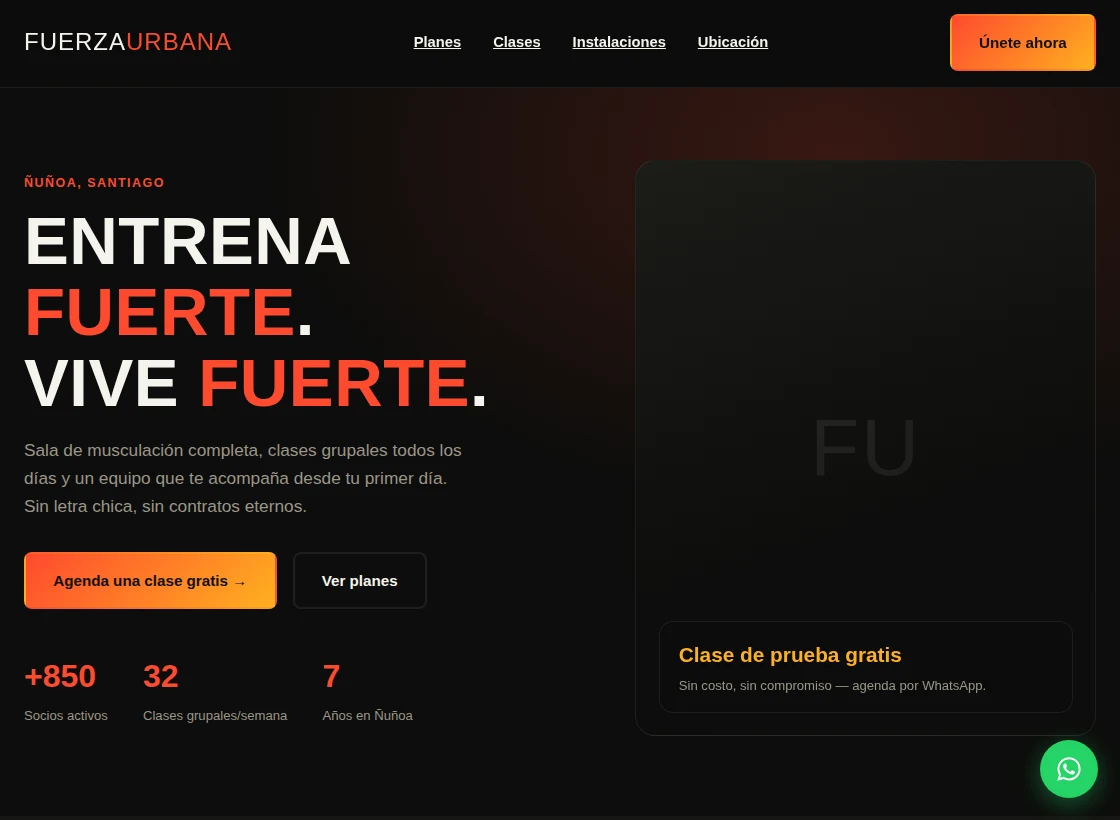
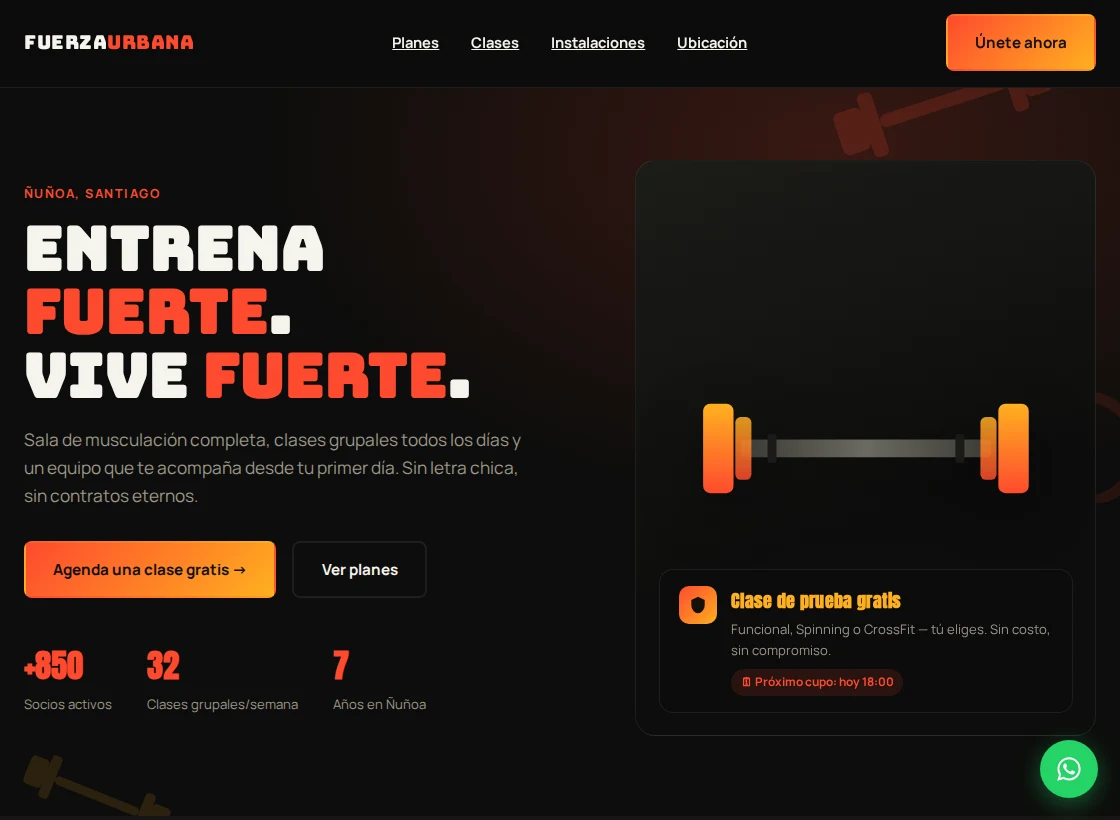
Polish gym demo: distinctive type pairing, animated hero weights, richer trial-class card
- Swap the generic Bebas Neue + Inter pairing for Bungee (hero headline
  and logo, tying into the "Urbana" name) + Anton (section headings,
  prices, stats) + Manrope (body) so the page reads less templated.
- Add floating dumbbell/plate SVG decorations in the hero background
  (disabled under prefers-reduced-motion).
- Replace the empty "FU" watermark in the hero visual with an actual
  barbell illustration, and flesh out the "Clase de prueba gratis"
  card with an icon and a "próximo cupo" chip instead of one line of
  text in an otherwise empty box.
- Regenerate the Casos Reales thumbnail to match.

Claude-Session: https://claude.ai/code/session_013ARALet1s4FzoMZVawUyVY

diff --git a/demo/gimnasio.html b/demo/gimnasio.html
@@ -11,7 +11,7 @@
 <meta name="theme-color" content="#0A0C07" />
 <link rel="preconnect" href="https://fonts.googleapis.com" />
 <link rel="preconnect" href="https://fonts.gstatic.com" crossorigin />
-<link href="https://fonts.googleapis.com/css2?family=Bebas+Neue&family=Inter:wght@400;500;600;700;800&display=swap" rel="stylesheet" />
+<link href="https://fonts.googleapis.com/css2?family=Bungee&family=Anton&family=Manrope:wght@400;500;600;700;800&display=swap" rel="stylesheet" />
 <style>
   * { box-sizing: border-box; margin: 0; padding: 0; }
   html, body { background: #0A0C07; }
@@ -33,8 +33,8 @@
     --accent: #FF4A2E; --accent2: #FFB020;
     --line: rgba(245,243,236,.08);
   }
-  body { font-family: 'Inter', sans-serif; background: var(--bg); color: var(--white); line-height: 1.6; }
-  h1, h2, h3, h4 { font-family: 'Bebas Neue', sans-serif; letter-spacing: .5px; line-height: 1.05; }
+  body { font-family: 'Manrope', sans-serif; background: var(--bg); color: var(--white); line-height: 1.6; }
+  h1, h2, h3, h4 { font-family: 'Anton', sans-serif; letter-spacing: .5px; line-height: 1.05; }
   a { color: inherit; }
   img { max-width: 100%; display: block; }
   .wrap { max-width: 1180px; margin: 0 auto; padding: 0 1.5rem; }
@@ -55,7 +55,7 @@
     border-bottom: 1px solid var(--line);
   }
   .nav-inner { display: flex; align-items: center; justify-content: space-between; padding: 1rem 1.5rem; max-width: 1180px; margin: 0 auto; }
-  .nav-logo { font-family: 'Bebas Neue', sans-serif; font-size: 1.5rem; letter-spacing: 1px; }
+  .nav-logo { font-family: 'Bungee', sans-serif; font-size: 1.2rem; letter-spacing: .5px; }
   .nav-logo span { color: var(--accent); }
   .nav-links { display: flex; gap: 2rem; list-style: none; font-size: .92rem; font-weight: 600; }
   .nav-links a:hover { color: var(--accent); }
@@ -71,14 +71,22 @@
     background: radial-gradient(60% 50% at 70% 20%, rgba(255,74,46,.18), transparent 70%);
     pointer-events: none;
   }
-  .hero-grid { display: grid; grid-template-columns: 1.1fr .9fr; gap: 3rem; align-items: center; position: relative; }
+  .hero-deco { position: absolute; inset: 0; pointer-events: none; z-index: 0; overflow: hidden; }
+  .hero-deco svg { position: absolute; opacity: .16; }
+  .hero-deco .d1 { width: 220px; top: -30px; right: 6%; transform: rotate(-18deg); animation: floatA 7s ease-in-out infinite; }
+  .hero-deco .d2 { width: 150px; bottom: -10px; left: 2%; transform: rotate(22deg); animation: floatB 8.5s ease-in-out infinite; opacity: .12; }
+  .hero-deco .d3 { width: 110px; top: 42%; right: -20px; transform: rotate(-6deg); animation: floatA 6s ease-in-out infinite reverse; opacity: .1; }
+  @keyframes floatA { 0%,100% { transform: translateY(0) rotate(-18deg); } 50% { transform: translateY(-18px) rotate(-12deg); } }
+  @keyframes floatB { 0%,100% { transform: translateY(0) rotate(22deg); } 50% { transform: translateY(16px) rotate(28deg); } }
+  @media (prefers-reduced-motion: reduce) { .hero-deco svg { animation: none !important; } }
+  .hero-grid { display: grid; grid-template-columns: 1.1fr .9fr; gap: 3rem; align-items: center; position: relative; z-index: 1; }
   @media (max-width: 900px) { .hero-grid { grid-template-columns: 1fr; } }
-  .hero h1 { font-size: clamp(2.6rem, 6vw, 4.6rem); text-transform: uppercase; }
+  .hero h1 { font-family: 'Bungee', sans-serif; font-size: clamp(2.2rem, 5.4vw, 4rem); text-transform: uppercase; letter-spacing: 0; }
   .hero h1 em { font-style: normal; color: var(--accent); }
   .hero p.lead { color: var(--gray); font-size: 1.08rem; max-width: 46ch; margin: 1.2rem 0 2rem; }
   .hero-actions { display: flex; gap: 1rem; flex-wrap: wrap; }
   .hero-stats { display: flex; gap: 2.2rem; margin-top: 2.6rem; flex-wrap: wrap; }
-  .hero-stats div b { font-family: 'Bebas Neue', sans-serif; font-size: 2rem; color: var(--accent); display: block; }
+  .hero-stats div b { font-family: 'Anton', sans-serif; font-size: 2rem; color: var(--accent); display: block; }
   .hero-stats div span { color: var(--gray); font-size: .82rem; }
   .hero-visual {
     aspect-ratio: 4/5; border-radius: 20px; position: relative;
@@ -86,14 +94,25 @@
       linear-gradient(160deg, #1c1c18 0%, #0d0d0c 60%),
       repeating-linear-gradient(45deg, rgba(255,74,46,.06) 0 2px, transparent 2px 14px);
     border: 1px solid var(--line); display: flex; align-items: center; justify-content: center;
+    overflow: hidden;
   }
+  .hero-visual .barbell { width: 78%; filter: drop-shadow(0 18px 30px rgba(0,0,0,.45)); animation: barbellFloat 5s ease-in-out infinite; }
+  @keyframes barbellFloat { 0%,100% { transform: translateY(0); } 50% { transform: translateY(-10px); } }
+  @media (prefers-reduced-motion: reduce) { .hero-visual .barbell { animation: none !important; } }
   .hero-visual .badge {
     position: absolute; bottom: 1.4rem; left: 1.4rem; right: 1.4rem;
     background: rgba(13,13,12,.85); border: 1px solid var(--line); border-radius: 14px; padding: 1rem 1.2rem;
-    backdrop-filter: blur(6px);
+    backdrop-filter: blur(6px); display: flex; gap: .9rem; align-items: flex-start;
   }
-  .hero-visual .badge b { font-family: 'Bebas Neue', sans-serif; color: var(--accent2); font-size: 1.3rem; }
-  .hero-visual .mark { font-family: 'Bebas Neue', sans-serif; font-size: 5rem; color: rgba(245,243,236,.08); letter-spacing: 2px; text-align: center; }
+  .hero-visual .badge .ic {
+    flex-shrink: 0; width: 38px; height: 38px; border-radius: 10px;
+    background: linear-gradient(135deg, var(--accent), var(--accent2)); display: flex; align-items: center; justify-content: center;
+  }
+  .hero-visual .badge b { font-family: 'Anton', sans-serif; color: var(--accent2); font-size: 1.15rem; letter-spacing: .3px; }
+  .hero-visual .badge .next {
+    display: inline-flex; align-items: center; gap: .35rem; margin-top: .5rem; font-size: .74rem; font-weight: 700;
+    color: var(--accent); background: rgba(255,74,46,.12); border-radius: 50px; padding: .25rem .6rem;
+  }
 
   /* ── generic section header ── */
   .sec-head { max-width: 640px; margin-bottom: 2.8rem; }
@@ -114,8 +133,8 @@
     font-size: .7rem; font-weight: 800; text-transform: uppercase; letter-spacing: .06em; padding: .3rem .7rem; border-radius: 6px;
   }
   .plan-card h3 { font-size: 1.5rem; text-transform: uppercase; margin-bottom: .3rem; }
-  .plan-price { font-family: 'Bebas Neue', sans-serif; font-size: 2.6rem; color: var(--accent2); margin: .6rem 0 .2rem; }
-  .plan-price small { font-family: 'Inter', sans-serif; font-size: .95rem; color: var(--gray); font-weight: 500; }
+  .plan-price { font-family: 'Anton', sans-serif; font-size: 2.6rem; color: var(--accent2); margin: .6rem 0 .2rem; }
+  .plan-price small { font-family: 'Manrope', sans-serif; font-size: .95rem; color: var(--gray); font-weight: 500; }
   .plan-card ul { list-style: none; margin: 1.3rem 0 1.8rem; flex: 1; }
   .plan-card li { padding: .45rem 0; border-top: 1px solid var(--line); font-size: .9rem; color: var(--gray); display: flex; gap: .5rem; }
   .plan-card li:first-child { border-top: none; }
@@ -143,7 +162,7 @@
   @media (max-width: 900px) { .feat-grid { grid-template-columns: repeat(2, 1fr); } }
   .feat-card { background: var(--card); border: 1px solid var(--line); border-radius: 14px; padding: 1.6rem 1.3rem; text-align: center; }
   .feat-card .ic { font-size: 1.8rem; margin-bottom: .7rem; }
-  .feat-card h4 { font-family: 'Inter', sans-serif; font-weight: 700; font-size: .95rem; text-transform: none; margin-bottom: .3rem; }
+  .feat-card h4 { font-family: 'Manrope', sans-serif; font-weight: 700; font-size: .95rem; text-transform: none; margin-bottom: .3rem; }
   .feat-card p { font-size: .82rem; color: var(--gray); }
 
   /* ── testimonios ── */
@@ -208,6 +227,25 @@
   </header>
 
   <section class="hero">
+    <div class="hero-deco" aria-hidden="true">
+      <svg class="d1" viewBox="0 0 200 80" fill="none" xmlns="http://www.w3.org/2000/svg">
+        <rect x="0" y="20" width="26" height="40" rx="6" fill="#FF4A2E"/>
+        <rect x="26" y="10" width="14" height="60" rx="5" fill="#FF4A2E"/>
+        <rect x="40" y="34" width="120" height="12" rx="6" fill="#FF4A2E"/>
+        <rect x="160" y="10" width="14" height="60" rx="5" fill="#FF4A2E"/>
+        <rect x="174" y="20" width="26" height="40" rx="6" fill="#FF4A2E"/>
+      </svg>
+      <svg class="d2" viewBox="0 0 200 80" fill="none" xmlns="http://www.w3.org/2000/svg">
+        <rect x="0" y="20" width="26" height="40" rx="6" fill="#FFB020"/>
+        <rect x="26" y="10" width="14" height="60" rx="5" fill="#FFB020"/>
+        <rect x="40" y="34" width="120" height="12" rx="6" fill="#FFB020"/>
+        <rect x="160" y="10" width="14" height="60" rx="5" fill="#FFB020"/>
+        <rect x="174" y="20" width="26" height="40" rx="6" fill="#FFB020"/>
+      </svg>
+      <svg class="d3" viewBox="0 0 80 80" fill="none" xmlns="http://www.w3.org/2000/svg">
+        <circle cx="40" cy="40" r="38" stroke="#FF4A2E" stroke-width="8"/>
+      </svg>
+    </div>
     <div class="wrap hero-grid">
       <div>
         <span class="eyebrow">Ñuñoa, Santiago</span>
@@ -224,10 +262,35 @@
         </div>
       </div>
       <div class="hero-visual">
-        <div class="mark">FU</div>
+        <svg class="barbell" viewBox="0 0 400 220" xmlns="http://www.w3.org/2000/svg">
+          <defs>
+            <linearGradient id="plateGrad" x1="0" y1="0" x2="0" y2="1">
+              <stop offset="0%" stop-color="#FFB020"/>
+              <stop offset="100%" stop-color="#FF4A2E"/>
+            </linearGradient>
+            <linearGradient id="barGrad" x1="0" y1="0" x2="1" y2="0">
+              <stop offset="0%" stop-color="#3a3a34"/>
+              <stop offset="50%" stop-color="#6b6a60"/>
+              <stop offset="100%" stop-color="#3a3a34"/>
+            </linearGradient>
+          </defs>
+          <rect x="60" y="100" width="280" height="20" rx="4" fill="url(#barGrad)"/>
+          <rect x="18" y="60" width="34" height="100" rx="8" fill="url(#plateGrad)"/>
+          <rect x="54" y="75" width="18" height="70" rx="6" fill="url(#plateGrad)" opacity=".85"/>
+          <rect x="348" y="60" width="34" height="100" rx="8" fill="url(#plateGrad)"/>
+          <rect x="328" y="75" width="18" height="70" rx="6" fill="url(#plateGrad)" opacity=".85"/>
+          <rect x="90" y="94" width="10" height="32" rx="3" fill="#1a1a17"/>
+          <rect x="300" y="94" width="10" height="32" rx="3" fill="#1a1a17"/>
+        </svg>
         <div class="badge">
-          <b>Clase de prueba gratis</b>
-          <div style="color:var(--gray); font-size:.82rem; margin-top:.2rem;">Sin costo, sin compromiso — agenda por WhatsApp.</div>
+          <div class="ic">
+            <svg width="20" height="20" viewBox="0 0 24 24" fill="none" xmlns="http://www.w3.org/2000/svg"><path d="M12 2 4 6v6c0 5 3.4 9.4 8 10 4.6-.6 8-5 8-10V6l-8-4Z" fill="#14100A"/></svg>
+          </div>
+          <div>
+            <b>Clase de prueba gratis</b>
+            <div style="color:var(--gray); font-size:.82rem; margin-top:.2rem;">Funcional, Spinning o CrossFit — tú eliges. Sin costo, sin compromiso.</div>
+            <span class="next">🗓 Próximo cupo: hoy 18:00</span>
+          </div>
         </div>
       </div>
     </div>
